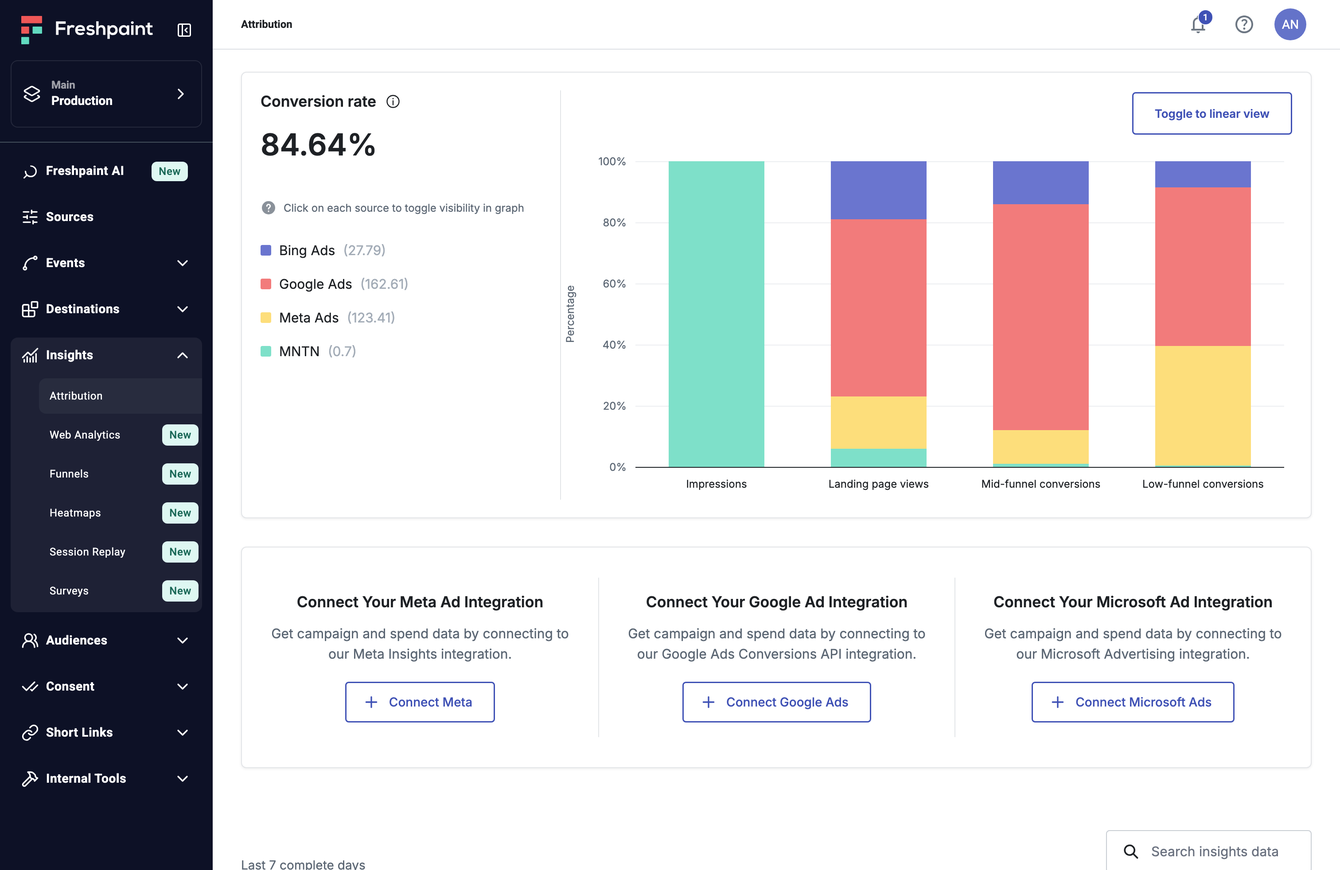
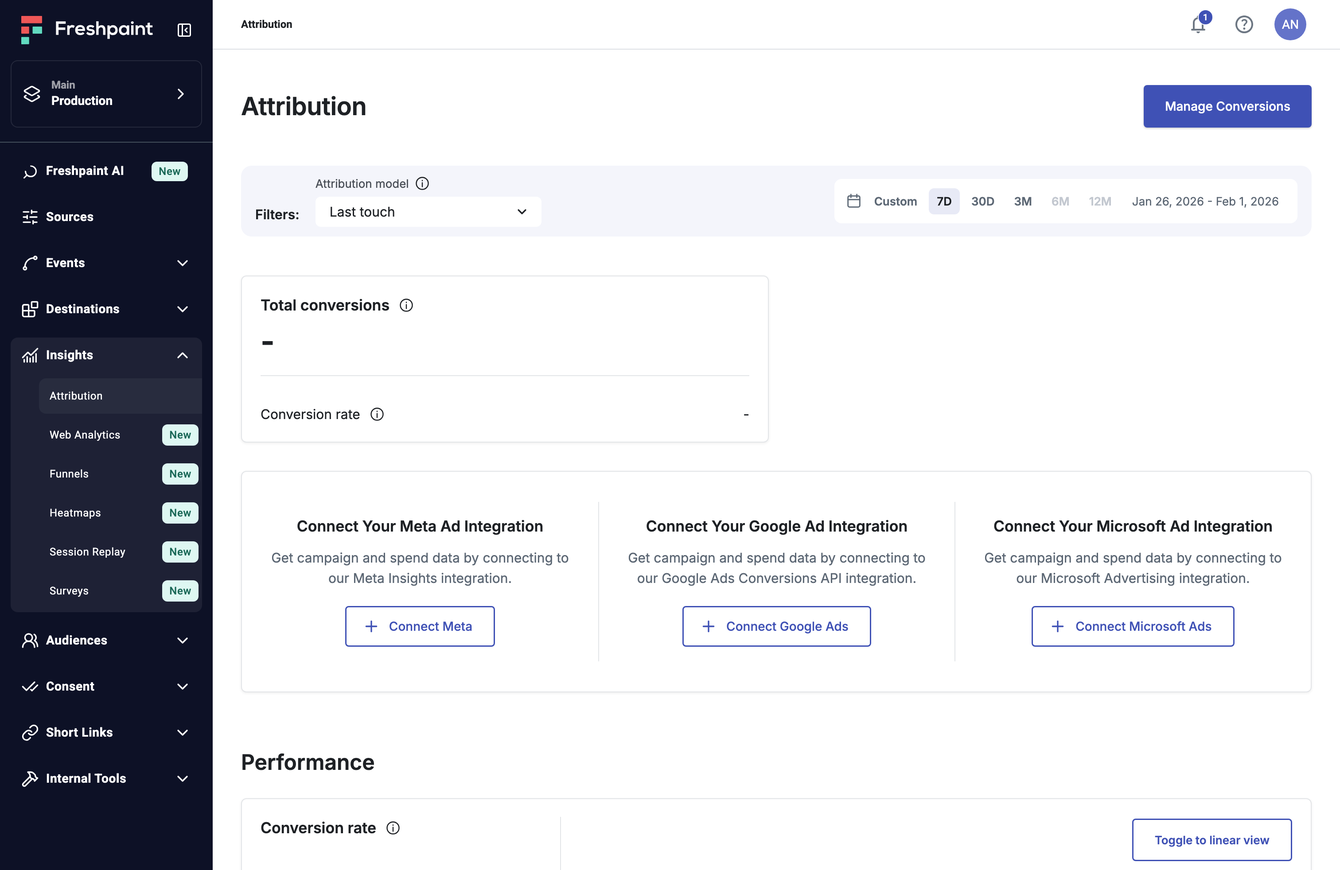
Empty states: nine in the montage, No ad sources rebuilt from Kyle's page; accent on 'Nothing was.'

diff --git a/src/visuals/EmptyStateMontage.tsx b/src/visuals/EmptyStateMontage.tsx
@@ -9,7 +9,7 @@ import { PlaceholderBadge } from '../components/Placeholder'
   Beat 4 visual: the empty-state montage, as a stack of screenshots on a table. One large screenshot falls
   and lands slightly askew; its empty area gets a hand-drawn magenta circle, a handwritten label, and an
   arrow. The next falls on top, a little offset, and the one beneath dims as it's covered. The first six
-  land slowly enough to read; "Waiting on data" is marked differently (dashed circle, question mark)
+  land slowly enough to read (now nine: several widgets have more than one empty state); "Waiting on data" is marked differently (dashed circle, question mark)
   because a later beat calls back to it. Then more keep coming, faster and faster, until the stack holds.
 
   SWAPPING IN REAL SCREENSHOTS: put the file in public/assets/hunch/, then on its entry in SHOTS set
@@ -44,24 +44,35 @@ export const Z = {
   body: { x: 4, y: 17, w: 92, h: 77 },
 }
 
-/** The six, in order. Swap in real screenshots here (see above). */
+/**
+ * Every empty state, in the order they fall. Each is a recreated screen (scripts/empty-states/, rendered by
+ * render.sh): No events from no-events.html, the rest from attribution.html?state=<name>. Several are the same
+ * widget in different states, depending on what's set up (per Kyle). Waiting on data stays last: it's marked
+ * differently (dashed circle, question mark) because a later beat calls back to it. Other visuals look shots
+ * up by label (shotByLabel), so the order is free to change.
+ */
 export const SHOTS: Shot[] = [
-  // recreated (no screen grab survived): scripts/empty-states/no-events.html, rendered by render.sh
   { label: 'No events', src: 'no-events.png', aspect: 1512 / 982, empty: { x: 42, y: 31, w: 32, h: 36 } },
-  // from Kyle's screen grab, in the componentized Attribution shell: attribution.html?state=events-undefined
   { label: 'Events not defined', src: 'events-undefined.png', aspect: 1512 / 982, empty: { x: 18, y: 74.9, w: 79.9, h: 23 } },
-  // recreated in the componentized Attribution shell: scripts/empty-states/attribution.html?state=no-ad-sources
-  { label: 'No ad sources', src: 'no-ad-sources.png', aspect: 1512 / 982, empty: { x: 18, y: 62.3, w: 79.9, h: 25.5 } },
-  // from Kyle's screen grabs, in the componentized Attribution shell: attribution.html?state=ai-off / ai-no-events
+  { label: 'No ad sources', src: 'no-ad-sources.png', aspect: 1512 / 982, empty: { x: 18, y: 53.9, w: 79.9, h: 25.5 } },
+  { label: 'Requires API connection', src: 'no-ad-sources-table.png', aspect: 1512 / 982, empty: { x: 18, y: 62.3, w: 79.9, h: 35.2 } },
   { label: 'AI off', src: 'ai-off.png', aspect: 1512 / 982, empty: { x: 18, y: 18, w: 79.9, h: 25.3 } },
   { label: 'AI on, no events', src: 'ai-no-events.png', aspect: 1512 / 982, empty: { x: 18, y: 18, w: 79.9, h: 25.3 } },
-  // from Kyle's screenshot plus his notes (empty chart, empty table container): attribution.html?state=waiting-on-data
+  { label: 'Recommendations processing', src: 'recs-processing.png', aspect: 1512 / 982, empty: { x: 18, y: 18, w: 79.9, h: 25.3 } },
+  { label: 'Not enough recent data', src: 'not-enough-data.png', aspect: 1512 / 982, empty: { x: 18, y: 23, w: 79.9, h: 24 } },
   { label: 'Waiting on data', src: 'waiting-on-data.png', aspect: 1512 / 982, empty: { x: 18, y: 7.7, w: 79.9, h: 82.1 }, question: true, labelAt: { x: 62, y: 3.5 } },
 ]
 
+/** A shot by its label (so other visuals don't depend on the montage's order). */
+export const shotByLabel = (label: string): Shot => {
+  const s = SHOTS.find((x) => x.label === label)
+  if (!s) throw new Error(`No empty-state shot labeled "${label}" in SHOTS (EmptyStateMontage.tsx).`)
+  return s
+}
+
 export const TIMING = {
   start: 0.5,
-  sixGap: 1.9, // between the first six, slow enough to read each label
+  sixGap: 1.5, // between the first wave (every shot once), slow enough to read each label
   fall: 0.55,
   circleAfter: 0.45, // circle starts this long after its screenshot begins to fall
   circleDraw: 0.6,
@@ -81,13 +92,13 @@ const MAX_H = 52
 
 const asset = (file: string) => `${import.meta.env.BASE_URL}assets/hunch/${file}`
 
-// the whole stack: the six, then repeats of the first five (no labels), each with a resting offset and tilt
+// the whole stack: every shot once, then repeats of the unmarked ones (no labels), each with a resting offset and tilt
 const STACK = (() => {
   let seed = 11
   const rand = () => ((seed = (seed * 9301 + 49297) % 233280) / 233280)
   const items: { shot: Shot; at: number; quick: boolean; dx: number; dy: number; r: number }[] = []
   SHOTS.forEach((shot, i) => items.push({ shot, at: TIMING.start + i * TIMING.sixGap, quick: false, dx: 0, dy: 0, r: 0 }))
-  let t = TIMING.start + 5 * TIMING.sixGap
+  let t = TIMING.start + (SHOTS.length - 1) * TIMING.sixGap
   let gap = TIMING.dupFirstGap + 1.2
   const repeats = SHOTS.filter((s) => !s.question)
   for (let i = 0; i < TIMING.dupCount; i++) {

diff --git a/scripts/empty-states/attribution.html b/scripts/empty-states/attribution.html
@@ -36,6 +36,10 @@
 // the newer page around the recommendations section
 const NEWER = (extra) => ({ header: 'docs', ...extra, filters: 'bordered', kpis: 'credit', chart: 'full' })
 
+// no ad platforms connected (Kyle's full page, very lightly filled): Connect section above the chart, and a table
+// whose spend columns need an API connection
+const NO_ADS = { header: 'manage', filters: 'model', kpis: 'conversions-empty', adsCta: 'connect', chart: 'light', table: 'unconnected' }
+
 const STATES = {
   // Attribution fully set up, for reference (the screenshot this page was rebuilt from)
   before: { widgets: { header: 'full', filters: 'full', kpis: 'full', chart: 'full', adsCta: null, table: 'full' }, focus: 'header', at: 40 },
@@ -49,7 +53,9 @@ const STATES = {
   // setup done, waiting on data ingestion (Kyle's screenshot): empty chart and an empty table; circled across both
   'waiting-on-data': { widgets: { header: 'manage', filters: 'model', kpis: 'conversions-empty', adsCta: 'connect', chart: 'empty', table: 'empty' }, focus: ['chart', 'table'], at: 20 },
   // no ad platforms connected: the Connect section sits between the chart and the table
-  'no-ad-sources': { widgets: { header: 'full', filters: 'full', kpis: 'full', chart: 'full', adsCta: 'connect', table: 'full' }, focus: 'adsCta', at: 556 },
+  'no-ad-sources': { widgets: NO_ADS, focus: 'adsCta' },
+  // the same page, framed on the table: spend reads Requires API Connection, with a Connect row under each source
+  'no-ad-sources-table': { widgets: NO_ADS, focus: 'table', at: 556 },
 }
 
 /* ---------- small parts ---------- */
@@ -271,6 +277,39 @@ WIDGETS.chart.empty = () =>
     .replace(/<div class="v">84\.64%<\/div>/, '<div class="v"><span class="dash">-</span></div>')
     .replace(/<div class="items">[\s\S]*?<\/div>/, '<div class="items"><span><i class="bing"></i>Google Ads <em>(0)</em></span><span><i class="google"></i>Meta Ads <em>(0)</em></span></div>')
     .replace(/<div class="bars">[\s\S]*?<\/div>\s*<div class="xl">/, '<div class="bars"></div><div class="xl">')
+// lightly filled: two sources with a little data, no low-funnel yet (mock numbers)
+WIDGETS.chart.light = () =>
+  WIDGETS.chart.empty()
+    .replace('<div class="bars"></div>', `<div class="bars">${bar([['google', 19], ['bing', 81]])}${bar([['google', 17], ['bing', 83]])}${bar([])}</div>`)
+    .replace('<span>Impressions</span>', '')
+
+// no ad platform connected: spend needs an API connection, and each source gets a Connect row (mock numbers and event names)
+WIDGETS.table.unconnected = () => `
+  <div class="tablebar">
+    <span class="muted" style="font-size:14px">Last 7 complete days</span>
+    <span class="search"><svg width="22" height="22" viewBox="0 0 24 24" fill="none" stroke="#1e2125" stroke-width="2" stroke-linecap="round"><circle cx="10.5" cy="10.5" r="6"/><path d="M15 15l5 5"/></svg>Search insights data</span>
+  </div>
+  <div class="card table unconnected">
+    <div class="tr h">
+      <span>Source <svg width="10" height="10" viewBox="0 0 10 10"><path d="M5 2l4 5H1z" fill="#8a919a"/></svg></span>
+      <span><span class="u">Landing page views</span>${sort}</span>
+      <span><span class="stack">Mid-funnel conversions<small>PageView, form_submit</small></span>${sort}</span>
+      <span><span class="stack">Low-funnel conversions<small>Booked Appointment</small></span>${sort}</span>
+      <span><span class="u">CPA ($)</span>${sort}</span>
+      <span><span class="u">Total spend ($)</span>${sort}</span>
+    </div>
+    ${[
+      ['Google Ads', '3,842', '2,516', 'Connect to the Google Ads Conversions API (CAPI) to view campaign and spend data.', 'Connect Google Ads'],
+      ['Meta Ads', '912', '488', 'Connect to Meta Insights to view campaign and spend data.', 'Connect Meta'],
+    ].map(([name, lpv, mid, note, cta]) => `
+      <div class="tr"><span>${name}</span><span>${lpv}</span><span>${mid}</span><span>0</span><span class="req">Requires API Connection</span><span class="req">Requires API Connection</span></div>
+      <div class="note"><svg width="18" height="18" viewBox="0 0 24 24"><circle cx="12" cy="12" r="10" fill="#3f51b5"/><path d="M12 11v6M12 7.5v.5" stroke="#fff" stroke-width="2.2" stroke-linecap="round"/></svg>${note} <u>${cta}</u></div>`).join('')}
+    <div class="pager">
+      <span class="rpp">Rows per page: <span class="num">10 ${chevron}</span></span>
+      <span class="nav"><span style="color:#1e2125">1-2 of 2</span><span>«</span><span>‹</span><span>›</span><span>»</span></span>
+    </div>
+  </div>`
+
 // the table's container with nothing in it yet (styled like the Define your events card). Copy is Claude's draft.
 WIDGETS.table.empty = () => `
   <div class="tablebar">

diff --git a/src/visuals/setup-map.tsx b/src/visuals/setup-map.tsx
@@ -1,7 +1,7 @@
 import { useId, type ReactNode } from 'react'
 import { motion } from 'motion/react'
 import { EASE_DECK } from '../engine/motion'
-import { SHOTS, ShotView, Z, type Shot } from './EmptyStateMontage'
+import { ShotView, shotByLabel, type Shot } from './EmptyStateMontage'
 import { HandCircle } from '../components/HandCircle'
 
 /*
@@ -50,25 +50,25 @@ const DRAWER_W = 220
 export const nodeSize = (n: MapNode) =>
   n.kind === 'attribution' ? { w: ATTR_W, h: (ATTR_W * 10) / 16 } : n.kind === 'page' ? { w: PAGE_W, h: 150 } : { w: DRAWER_W, h: 132 }
 
-const shot = (i: number, patch: Partial<Shot> = {}): Shot => ({ ...SHOTS[i], ...patch })
+const shot = (label: string, patch: Partial<Shot> = {}): Shot => ({ ...shotByLabel(label), ...patch })
 
 export const NODES: MapNode[] = [
-  { id: 'attr-1', kind: 'attribution', x: 0, y: 0, shot: shot(0) }, // No events
+  { id: 'attr-1', kind: 'attribution', x: 0, y: 0, shot: shot('No events') }, // No events
   { id: 'events', kind: 'page', x: 360, y: -330, title: 'Events', detail: 'Leave Attribution' },
   { id: 'event-creation', kind: 'drawer', x: 700, y: -330, title: 'Event Creation', detail: 'Create an event, save', feature: 'save' },
-  { id: 'attr-2', kind: 'attribution', x: 1040, y: 0, shot: shot(1), hiddenButton: true }, // Events not defined
+  { id: 'attr-2', kind: 'attribution', x: 1040, y: 0, shot: shot('Events not defined'), hiddenButton: true }, // Events not defined
   { id: 'event-definition', kind: 'drawer', x: 1040, y: 330, title: 'Manage conversions', detail: 'Mark events as mid or low funnel', feature: 'funnel' },
-  { id: 'attr-3', kind: 'attribution', x: 1400, y: 0, shot: shot(5, { label: 'Data ingestion', labelAt: { x: 70, y: 8 } }) }, // wait
-  { id: 'attr-4', kind: 'attribution', x: 1760, y: 0, shot: shot(2) }, // No ad sources
+  { id: 'attr-3', kind: 'attribution', x: 1400, y: 0, shot: shot('Waiting on data', { label: 'Data ingestion', labelAt: { x: 70, y: 8 } }) }, // wait
+  { id: 'attr-4', kind: 'attribution', x: 1760, y: 0, shot: shot('No ad sources') }, // No ad sources
   { id: 'sources', kind: 'page', x: 2100, y: -330, title: 'Sources', detail: 'Connect ad sources', feature: 'oauth' },
-  { id: 'attr-5', kind: 'attribution', x: 2440, y: 0, shot: shot(3) }, // AI off
+  { id: 'attr-5', kind: 'attribution', x: 2440, y: 0, shot: shot('AI off') }, // AI off
   { id: 'ai-settings', kind: 'page', x: 2780, y: -330, title: 'Freshpaint AI settings', detail: 'Turn on AI', feature: 'toggle' },
   {
     id: 'attr-6',
     kind: 'attribution',
     x: 3120,
     y: 0,
-    shot: { label: 'Card generation', placeholder: 'ai-no-events', empty: Z.bottom, question: true },
+    shot: shot('Recommendations processing', { label: 'Card generation', question: true }),
   }, // wait: cards take a full day
 ]
 

diff --git a/src/visuals/MappingBoard.tsx b/src/visuals/MappingBoard.tsx
@@ -4,7 +4,7 @@ import { EASE_DECK } from '../engine/motion'
 import type { VisualProps } from '../engine/types'
 import { useVisualPlayback } from '../engine/useVisualPlayback'
 import { PlaceholderBadge } from '../components/Placeholder'
-import { SHOTS, ShotView } from './EmptyStateMontage'
+import { ShotView, shotByLabel } from './EmptyStateMontage'
 
 /*
   Beat 6 visual ("Connecting the dots"): the method, not the result. A generic whiteboard (not FigJam's UI).
@@ -28,18 +28,18 @@ export const TIMING = {
 // layout in percent of the board (x of width, y of height); a two-row snake, left to right then back
 const SHOT_W = 14 // cqw
 const STEP_W = 11 // cqw
-type Item = { kind: 'shot'; shot: number; x: number; y: number } | { kind: 'step'; label: string; x: number; y: number }
+type Item = { kind: 'shot'; shot: string; x: number; y: number } | { kind: 'step'; label: string; x: number; y: number }
 const FLOW: Item[] = [
-  { kind: 'shot', shot: 0, x: 10, y: 28 }, // No events
+  { kind: 'shot', shot: 'No events', x: 10, y: 28 }, // No events
   { kind: 'step', label: 'Event Creation', x: 28, y: 28 },
-  { kind: 'shot', shot: 1, x: 46, y: 28 }, // Events not defined
+  { kind: 'shot', shot: 'Events not defined', x: 46, y: 28 }, // Events not defined
   { kind: 'step', label: 'Event Definition', x: 64, y: 28 },
-  { kind: 'shot', shot: 5, x: 84, y: 28 }, // Waiting on data
-  { kind: 'shot', shot: 2, x: 84, y: 74 }, // No ad sources
+  { kind: 'shot', shot: 'Waiting on data', x: 84, y: 28 }, // Waiting on data
+  { kind: 'shot', shot: 'No ad sources', x: 84, y: 74 }, // No ad sources
   { kind: 'step', label: 'Sources', x: 64, y: 74 },
-  { kind: 'shot', shot: 3, x: 46, y: 74 }, // AI off
+  { kind: 'shot', shot: 'AI off', x: 46, y: 74 }, // AI off
   { kind: 'step', label: 'AI settings', x: 28, y: 74 },
-  { kind: 'shot', shot: 4, x: 10, y: 74 }, // AI on, no events
+  { kind: 'shot', shot: 'AI on, no events', x: 10, y: 74 }, // AI on, no events
 ]
 // friction points: a handwritten note above or below a step (index into FLOW), with an arrow to it.
 // Kyle's wording (2026-10-25), each under a "UX Gap:" label.
@@ -129,7 +129,7 @@ export function MappingBoard(props: VisualProps) {
                   animate={on ? { opacity: 1, scale: 1, y: '0%' } : { opacity: 0, scale: reduced ? 1 : 1.2, y: reduced ? '0%' : '-10%' }}
                   transition={at(d, 0.5)}
                 >
-                  <ShotView shot={SHOTS[f.shot]} show={on} instant={!playing} reducedMotion={reduced} delay={d + 0.3} circleDuration={0.45} variant={n} />
+                  <ShotView shot={shotByLabel(f.shot)} show={on} instant={!playing} reducedMotion={reduced} delay={d + 0.3} circleDuration={0.45} variant={n} />
                 </motion.div>
               </Placed>
             )

diff --git a/scripts/empty-states/attribution.css b/scripts/empty-states/attribution.css
@@ -142,3 +142,9 @@
   .nodata h3 { margin-top: 18px; font-size: 20px; font-weight: 600; }
   .nodata p { margin-top: 12px; max-width: 520px; font-size: 15px; line-height: 23px; color: #5d6875; }
   .nodata-table { margin-top: 16px; height: 200px; }
+
+  /* No ad sources: the table without an ad connection */
+  .table.unconnected .tr { grid-template-columns: 1.1fr 1.15fr 1.7fr 1.7fr 1.3fr 1.3fr; }
+  .req { color: #a3acb7; font-size: 13px; }
+  .note { display: flex; align-items: center; gap: 10px; height: 52px; padding: 0 16px; border-top: 1px solid #e3e5e8; background: #f4f5fb; font-size: 14px; }
+  .note u { font-weight: 600; text-underline-offset: 2px; margin-left: 2px; }

diff --git a/src/beats/04-hunch.tsx b/src/beats/04-hunch.tsx
@@ -15,7 +15,7 @@ const beat: Beat = {
             I brought it up with the team to see if anyone else had noticed. They had. PM and Eng both knew customers struggled to get fully set up. So I asked whether anything was planned to address it.
           </p>
           {/* the turn gets its own line so it can't be read past */}
-          <p>Nothing was.</p>
+          <p className="font-semibold italic text-accent">Nothing was.</p>
         </>
       }
     />

diff --git a/CLAUDE.md b/CLAUDE.md
@@ -138,6 +138,8 @@ The piece is card and animation heavy, so it must not accumulate DOM or running 
 - 2026-10-25: Per Kyle: the problem statement no longer has a visual (straight to the Discovery title card); "What the code told me" drops the line about the drawer's required fields; the mapping board's sticky notes became handwritten magenta notes with arrows naming the friction points (Kyle's wording, each labeled "UX Gap:": Leaving Attribution to create events / No way back after connecting / Leaving Attribution to turn on AI. Kyle was torn between "UX gap" and "friction point"; Claude recommended UX Gap for all three, shorter and consistent; Kyle confirmed); the recreated No events screen now uses the walkthrough's sidebar exactly.
 - 2026-10-25: The prototype's kickoff is now explicit, per Kyle: a Moment on "What the code told me" ("I had all the info I needed. Time to start building.", Kyle's wording), between scoping and "Designing for real numbers".
 - 2026-10-25: Recreated empty states now share one toolkit in `scripts/empty-states/`, per Kyle's suggestion: `shell.css` / `shell.js` (the walkthrough's sidebar and top bar, exactly), `no-events.html`, and `attribution.html`, the old Attribution page (before the redesign) componentized: one template per widget (header, filters, kpis, chart, adsCta, table) with named variants, and STATES recipes saying which variant each widget uses and which one is the empty state (`focus`). `sh scripts/empty-states/render.sh` renders every state to `public/assets/hunch/<state>.png` at 2x and prints the empty state's box for SHOTS. To add one: Kyle screenshots the empty widget, Claude adds it as a variant and a state. Page content is Inter; mock data; no real account names, emails, or initials (Kyle's screenshot was of a customer account). "No ad sources" is built this way: the Connect section between the chart and the table, with Meta, Google, and a third column for Microsoft Advertising (added per Kyle). "Events not defined" is built from Kyle's screen grab (title only, the Set up your conversion events banner, Attribution model filter only, a half-width Total conversions card with dashes, and the Define your events card, which is circled). The AI recommendation states are built from Kyle's grabs of the newer page (docs line under the title; Total Conversion Credit / ROAS / Total Spend; bordered filters; 30D): `ai-off` (the Recommendation Cards promo, Enable AI / Hide for now), `ai-no-events` (3-step tracker, One more step), `recs-processing` (Your first recommendations are on the way), `not-enough-data` (Weekly Recommendations, Not enough recent data). AI off and AI on, no events are in SHOTS; AI off also fills session-grid tiles 2 and 3. recs-processing and not-enough-data are rendered but not placed yet (see open notes). No ad sources also fills tiles 1 and 4 of the Beat 3 session grid (tile 4 is the one that zooms); tiles 2 and 3 wait for AI off (`SessionGrid.tsx` takes a `shot` per session from SHOTS).
+- 2026-10-26: The montage now holds nine empty states, per Kyle: No events, Events not defined, No ad sources, Requires API connection, AI off, AI on, no events, Recommendations processing, Not enough recent data, Waiting on data (last, with the question mark). The first wave paces at 1.5s per shot (was 1.9s) to keep the length in check. No ad sources was rebuilt from Kyle's lightly filled page (the "ugly" state he'd forgotten): Manage conversions header, model filter, conversions-only KPIs, a light chart, the Connect section circled. "Requires API connection" is the same page scrolled to the ad sources table (spend reads "Requires API Connection", with a Connect row under each source). `shotByLabel` looks shots up by label, so the board, the map (Card generation uses Recommendations processing), and the session grid don't depend on SHOTS order.
+- 2026-10-26: "Nothing was." on Checking the hunch is the screen's yellow moment: accent, semibold, italic (Kyle).
 - 2026-10-26: The tweaks-panel prototype ("Showing my work") now uses the product's real patterns, per Kyle: Low and Average in the setup step's event list (Figma `1:11110`: rows with selector and trash, Add another, Continue); High and Outlier in the waiting room's Events being tracked (Figma `1:15684`), as Mid-funnel and Low-funnel groups four across. It's built from the walkthrough's own components (`EventList`, `TrackedEvents`, `WaitingRoom`, `ProductFrame`, `SetupHeading`, exported from `onboarding-screens.tsx`), so the two can't drift. The tweaks panel sits bottom-left, over the sidebar, so it covers no content.
 - 2026-10-25: Started 03 Approach. Per the System, "Checking before prototyping" is a frameless statement followed by a 4-press terminal visual (one press per exchange, forward-only auto-advance, longer first search); "What the code told me" is a card holding the v1 status list.
 - 2026-10-25: Built 02 Diagnosis (section card plus three beats). Placed after "How widespread was it?" rather than after "Checking the hunch", since its beats reuse that montage and answer its overlay. Per the System, "Connecting the dots" and "Checking my work" are frameless statements (no artifact); "One problem, not six" is a card (it holds the Required / Optional split). Its headline is display size with "not six" in accent, echoing the title's two-tone device. Diagnosis tagline updated to Kyle's: "Mapping the flow to see the shape of the problem."
@@ -177,7 +179,7 @@ The piece is card and animation heavy, so it must not accumulate DOM or running 
 | 2 | problem | statement, card overlay (kicker) | None (the three-paths visual was removed 2026-10-25, per Kyle; `SetupPaths.tsx` kept unregistered). Goes straight to the 01 Discovery title card. | Revised 2026-10-25, awaiting Kyle's review |
 
 ## Up next and open notes
-- Empty states: all six SHOTS are recreated screens. "Waiting on data" (`waiting-on-data`) follows Kyle's screenshot and notes: empty chart, empty table container; its table copy ("No data yet" / "Once your data is processed, your sources and campaigns will show up here.") is Claude's draft, to confirm. Two more states are rendered but not placed: recommendations processing and Not enough recent data; ask whether either belongs in the story (the copy says six empty states in several places). Kyle's full lightly-filled page shows the real no-ad-sources table (spend reads "Requires API Connection", with a Connect row under each source); No ad sources could adopt it.
+- Empty states: nine SHOTS, all recreated screens (Kyle, 2026-10-26: the extra states "count", since one widget can have several empty states depending on what's set up). The copy still says "six" in several places (Beat 5 overlay, "One problem, not six" headline and body, the ride-along overlay, the "Empty states hit" counter); ask Kyle for wording, never change it silently. "Waiting on data" follows Kyle's screenshot; its table copy ("No data yet" / "Once your data is processed, your sources and campaigns will show up here.") is Claude's draft, to confirm.
 - Length is a standing concern (Kyle, 2026-10-25): the live talk must run 15 to 20 minutes. Flag beats that run long as the rest gets built, and suggest trims (never rewrite silently). Parked idea, not built: a discreet present mode (one key, e.g. T, global, no visible control) that swaps long beats to Kyle-approved TLDR copy (headline plus one to three short lines, set larger); full copy stays the default for portfolio readers. A speaker-notes window (full copy on a second screen) was also floated. Build only when Kyle asks.
 - The case study title may change later. "Diagnosing the problem, not the symptom" stands for now (title in `src/beats/01-title.tsx` and `index.html`).
 - 02 Diagnosis is built. 03 Approach has its section card and six beats and is complete, ending on "Bringing it to the team". 04 Solution is complete: section card, walkthrough, Three goals, one solution. 05 Impact is next (it can answer each of the three goals); wait for Kyle's copy. The expanded checklist frame `1:23438` is for a possible beat on existing users (a later beat on existing users uses the expanded checklist frame `1:23438`). Wait for Kyle's copy.
@@ -217,7 +219,7 @@ The piece is card and animation heavy, so it must not accumulate DOM or running 
 
 ### Beat 4 copy (verbatim): Checking the hunch
 - Headline: Checking the hunch
-- Body: I brought it up with the team to see if anyone else had noticed. They had. PM and Eng both knew customers struggled to get fully set up. So I asked whether anything was planned to address it. / Nothing was. (rewritten by Kyle 2026-10-25; "Nothing was." on its own line, per Kyle)
+- Body: I brought it up with the team to see if anyone else had noticed. They had. PM and Eng both knew customers struggled to get fully set up. So I asked whether anything was planned to address it. / Nothing was. (rewritten by Kyle 2026-10-25; "Nothing was." on its own line in accent, semibold italic, per Kyle)
 - Chat (#team-indigo, divider "After the research sessions"):
   - Kyle Blackman: Noticed something over these past few customer sessions. Seems like almost everyone we spoke to had an Attribution dashboard that was only half set up. Am I crazy? (approved)
   - PM: You're not crazy. Setup has been a known pain point. Even our CEO has called it out. (approved)
@@ -229,7 +231,7 @@ The piece is card and animation heavy, so it must not accumulate DOM or running 
 - Headline: How widespread was it? (chosen by Kyle)
 - Body: Before pushing further, I wanted to know how widespread it was. Our masquerade tool let us see a customer's actual account, populated with their own data, so I used it to look inside roughly 20 of our 200+ customer accounts. I didn't have to dig. Almost every account was either half set up or not set up at all. The fully configured ones were outliers.
 - Closing line (own paragraph, accent): And it wasn't one empty state. It was many.
-- Montage labels, in order: No events. Events not defined. No ad sources. AI off. AI on, no events. Waiting on data.
+- Montage labels, in order: No events. Events not defined. No ad sources. Requires API connection. AI off. AI on, no events. Recommendations processing. Not enough recent data. Waiting on data. (Three labels added by Claude 2026-10-26, to confirm.)
 - Overlay (auto after the stack, holds for a key press): Six different empty states. Were they evidence of six problems, or just one? (updated by Kyle 2026-10-25)
 
 ### 02 Diagnosis copy (verbatim)
